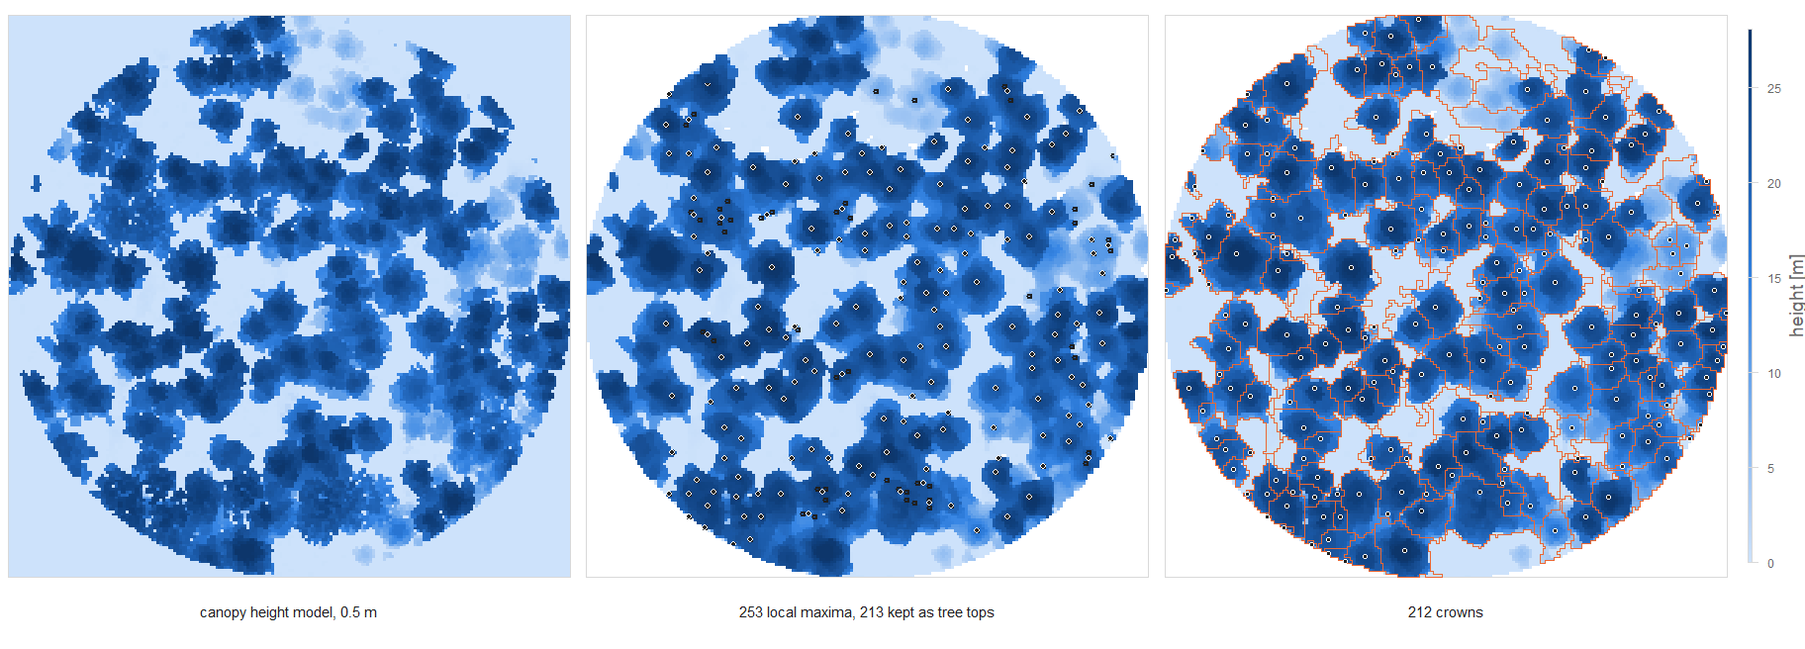
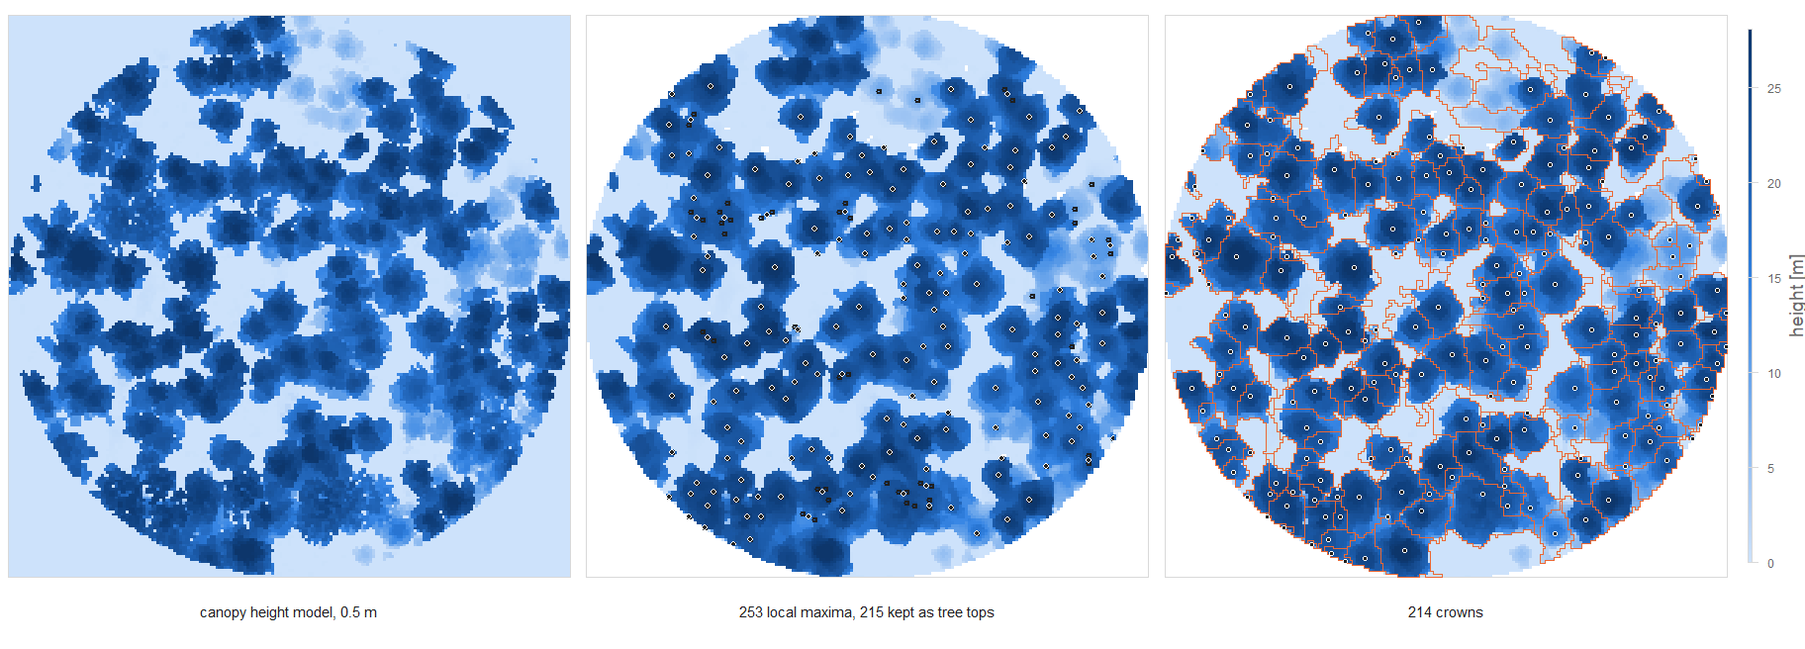
Remake the figures and requote the READMEs from the tools

Changed region(s): [[0.75, 0.0915, 0.7812, 0.122], [0.5312, 0.3049, 0.5625, 0.3354], [0.5, 0.7622, 0.5312, 0.7927]]

diff --git a/python/www/figures.py b/python/www/figures.py
@@ -26,7 +26,7 @@ HERE = os.path.dirname(os.path.abspath(__file__))
 ROOT = os.path.dirname(HERE)
 sys.path.insert(0, ROOT)
 
-from pycacumen import CrownDelineator, detect_tops, merge_tops, screen_tops  # noqa: E402
+from pycacumen import CrownDelineator, as_pixels, detect_tops, merge_tops, screen_tops  # noqa: E402
 
 TILE = os.path.join(ROOT, "test_data", "chm_150_2014.tif")
 # One blue ramp for magnitude, one orange for the crown outlines, ink for tops.
@@ -74,8 +74,9 @@ def absorbed_mask(crowns, tops):
     present = np.zeros(len(tops) + 1, bool)
     present[np.unique(crowns[crowns > 0])] = True
     gone = ~present[1:]
+    cells = as_pixels(tops)                  # the cell each top was seeded on
     for i in np.nonzero(gone)[0]:            # every absorbed top sits inside somebody else's crown
-        r, c = int(round(tops[i, 0])), int(round(tops[i, 1]))
+        r, c = cells[i]
         assert crowns[r, c] > 0 and crowns[r, c] != i + 1, (i, crowns[r, c])
     return gone
 
@@ -86,7 +87,10 @@ chm[~np.isfinite(chm)] = 0.0
 vmax = float(np.nanpercentile(chm, 99.5))
 cd.smooth(ws=3)
 raw = detect_tops(cd.smoothed, hmin=HMIN, ws=WS_TOPS)
-kept = screen_tops(cd.smoothed, merge_tops(raw, distance=MERGE), hmin=SCREEN)
+# merged as the pipeline merges: with the CHM and the detection threshold, so that a group
+# whose centroid falls on a hole or in a gap keeps its highest top
+kept = screen_tops(cd.smoothed, merge_tops(raw, distance=MERGE, chm=cd.smoothed, hmin=HMIN),
+                   hmin=SCREEN)
 cd.tops = kept
 runs = {}
 for vt in (2.0, 8.0, 20.0):

diff --git a/r/README.md b/r/README.md
@@ -11,7 +11,7 @@
 
 A canopy height model goes in; a crown per tree comes out, as a raster of ids and as polygons. R and plain C — no Rcpp, no compiled dependencies, and `terra` only if you want to read and write files.
 
-> **Python users:** the same algorithm is in [`python/`](../python), the pycacumen package. The two packages share this repository, and they are not merely similar. On the sixty small scenes of the shared synthetic test suite they produce **identical output, pixel for pixel**; on its ten large, crowded ones they differ on 0.032 % of pixels. On real canopy height models they agree closely but not exactly, because the two watershed implementations break plateau ties differently. Both numbers are measured, not claimed — see [Agreement with pycacumen](#agreement-with-pycacumen).
+> **Python users:** the same algorithm is in [`python/`](../python), the pycacumen package. The two packages share this repository, and they are not merely similar. On the seventy scenes of the shared synthetic test suite they produce **identical output, pixel for pixel**. On real canopy height models they agree closely but not exactly, because the two watershed implementations break plateau ties differently. Both numbers are measured, not claimed — see [Agreement with pycacumen](#agreement-with-pycacumen).
 
 ## The problem it solves
 
@@ -24,17 +24,17 @@ rcacumen does not try to get the tops right first. It accepts the surplus and co
 3. **Growing.** Each tree grows greedily, absorbing neighbours while the combined height variance stays under a threshold. When two trees absorb each other, they were one crown — this is where over-detection is undone.
 4. **Arbitration.** Growing runs independently per seed, so two crowns can claim the same region. The claim is settled on the data — the taller tree, the nearer tree, or the better height match — never on iteration order. Only an exact tie, two equally tall trees under the height rule for one, falls to the top that comes first, and both packages list the tops in one order.
 
-<img src="https://raw.githubusercontent.com/igorpawelec/cacumen/main/r/www/pipeline.png" alt="A 0.5 m canopy height model of a circular sample plot; the same tile with 253 local maxima of which 213 are kept as tree tops; and the 212 crowns delineated from them, drawn as outlines over the height model" width="100%"/>
+<img src="https://raw.githubusercontent.com/igorpawelec/cacumen/main/r/www/pipeline.png" alt="A 0.5 m canopy height model of a circular sample plot; the same tile with 253 local maxima of which 215 are kept as tree tops; and the 214 crowns delineated from them, drawn as outlines over the height model" width="100%"/>
 
-*A 100 × 100 m tile of a 0.5 m canopy height model (`test_data/chm_150_2014.tif`, a mature stand on a circular sample plot). Left: the input. Middle: 253 local maxima after median smoothing (`hmin` 7 m, 5 px window), of which 213 survive merging within 5 px and screening below 10 m — the filled markers. Right: the 212 crowns grown from them at the default `variance_thresh` of 2. Made by `www/figures.R`, from this package.*
+*A 100 × 100 m tile of a 0.5 m canopy height model (`test_data/chm_150_2014.tif`, a mature stand on a circular sample plot). Left: the input. Middle: 253 local maxima after median smoothing (`hmin` 7 m, 5 px window), of which 215 survive merging within 5 px and screening below 10 m — the filled markers. Right: the 214 crowns grown from them at the default `variance_thresh` of 2. Made by `www/figures.R`, from this package.*
 
 ## The one parameter that matters
 
 `variance_thresh` is the height variance (σ², in m²) a single crown may contain. It sets how readily a tree absorbs its neighbours, and therefore how many of the surplus tops are merged back. Everything else has a sensible default; this one you choose per stand.
 
-<img src="https://raw.githubusercontent.com/igorpawelec/cacumen/main/r/www/variance_thresh.png" alt="The same tile delineated at variance_thresh 2, 8 and 20: 212, 202 and 123 crowns; the tree tops absorbed into a neighbouring crown are drawn as hollow rings and cluster where crowns merged" width="100%"/>
+<img src="https://raw.githubusercontent.com/igorpawelec/cacumen/main/r/www/variance_thresh.png" alt="The same tile delineated at variance_thresh 2, 8 and 20: 214, 204 and 124 crowns; the tree tops absorbed into a neighbouring crown are drawn as hollow rings and cluster where crowns merged" width="100%"/>
 
-*The same 213 tree tops grown at `variance_thresh` 2, 8 and 20. Filled markers are tops that ended up as a crown of their own; hollow rings are tops absorbed into a neighbour — 1, 11 and 90 of them. At 2 almost nothing merges and every peak on a broad crown stays a separate tree; at 20 the merging reaches across real crown boundaries in the dense south-east of the plot. The right value lies where the absorbed tops are the ragged-surface duplicates and not the suppressed neighbours, which is a judgement made by looking, and the point of drawing them. pycacumen's README shows the same tile from Python: identical at 2 and 20, one crown apart at 8 (203 against 202) — the watershed tie-breaking measured [below](#agreement-with-pycacumen), at work.*
+*The same 215 tree tops grown at `variance_thresh` 2, 8 and 20. Filled markers are tops that ended up as a crown of their own; hollow rings are tops absorbed into a neighbour — 1, 11 and 91 of them. At 2 almost nothing merges and every peak on a broad crown stays a separate tree; at 20 the merging reaches across real crown boundaries in the dense south-east of the plot. The right value lies where the absorbed tops are the ragged-surface duplicates and not the suppressed neighbours, which is a judgement made by looking, and the point of drawing them. pycacumen's README shows the same tile from Python: identical at 2 and 20, one crown apart at 8 (205 against 204) — the watershed tie-breaking measured [below](#agreement-with-pycacumen), at work.*
 
 Two further controls shape the outcome:
 
@@ -130,8 +130,8 @@ attr(crowns, "n_contested")
 |---|---|---|
 | `hmin` | 2 | Minimum height (m) for a pixel to be a candidate |
 | `ws` | 3 | Local-maximum window (px) = minimum spacing between tops |
-| `distance` | 5 | Merge radius (px). Grouping is transitive — keep below crown diameter |
-| `chm` | `NULL` | `merge_tops()` only: the CHM. With it, a group whose centroid falls on a cell with no data is represented by its highest top; `delineate()` passes it |
+| `distance` | 5 | Merge radius (px). Grouping is transitive — keep below crown diameter; a warning says when groups stretch over more than five times it |
+| `chm`, `hmin` | `NULL` | `merge_tops()` only: the CHM and the height the tops were detected above. With them, a group whose centroid falls on a cell with no data, or on one not above `hmin`, is represented by its highest top; `delineate()` passes both |
 
 **Growing** — `grow_crowns`
 
@@ -155,11 +155,11 @@ Two implementations of one method are only useful if they agree, so this is meas
 
 | Test | Result |
 |---|---|
-| Watershed vs `scikit-image`, 200 random scenes, flooded from the detected tops | 100 smooth scenes **exact** (0 of 195,857 px); 100 that are all plateau within **0.07 %** (152 of 206,286 px) |
-| Full pipeline vs pycacumen, 70 synthetic scenes, all 3 conflict rules | 60 small scenes **exact**; 10 large crowded ones within **0.032 %** |
+| Watershed vs `scikit-image`, 200 random scenes, flooded from the detected tops | 100 smooth scenes **exact** (0 of 195,857 px); 100 that are all plateau within **0.04 %** (83 of 206,286 px) |
+| Full pipeline vs pycacumen, 70 synthetic scenes, all 3 conflict rules | all 70 scenes **exact** (0 of 433,006 px) |
 | Crown counts, contested counts | identical throughout |
-| Watershed vs `scikit-image`, 7 **real** CHMs | 375 of 147,368 masked px differ (**0.25 %**) |
-| Full pipeline vs pycacumen, same 7 real CHMs | 1,793 of 281,602 px differ (**0.64 %**) |
+| Watershed vs `scikit-image`, 7 **real** CHMs | 288 of 147,368 masked px differ (**0.20 %**) |
+| Full pipeline vs pycacumen, same 7 real CHMs | 271 of 281,602 px differ (**0.10 %**) |
 
 Reproduce it yourself:
 
@@ -172,18 +172,18 @@ Rscript tools/real_tiles_stage_by_stage.R          # the two rows on real CHMs
 ```
 
 <details>
-<summary><b>Where the last 0.25 % goes</b></summary>
+<summary><b>Where the last 0.2 % goes</b></summary>
 
 The synthetic scenes agree exactly; real canopy height models do not, and the honest version is that the equality holds on the test suite rather than in general. Measured stage by stage on the seven tiles of `test_data`, each stage fed pycacumen's own output for the previous one (`tools/real_tiles_stage_by_stage.R`: median smoothing over 3 px, tops above 5 m in a 5 px window, variance threshold 8, mask at 1 m):
 
 - `smooth_chm` — identical to the last bit
 - `detect_tops` — agrees to 2.8e-14
 - the mask — identical
-- the watershed — **375 of 147,368 masked pixels differ**
+- the watershed — **288 of 147,368 masked pixels differ**
 
-`src/watershed.c` reimplements `skimage.segmentation.watershed` rather than calling it, and on the plateau structure of a real CHM the two break ties differently. Which of the three documented details diverges — heap order, label-on-push, or neighbour order — is not yet established. What is established is where it shows: flooded from the detected tops, random smooth surfaces come out identical and surfaces rounded to whole metres differ on 0.07 % of pixels; with the same number of markers dropped at random, so that several meet on one plateau, 2.4 % of pixels differ (`tools/watershed_against_skimage.R`).
+`src/watershed.c` reimplements `skimage.segmentation.watershed` rather than calling it, and on the plateau structure of a real CHM the two break ties differently. Which of the three documented details diverges — heap order, label-on-push, or neighbour order — is not yet established. What is established is where it shows: flooded from the detected tops, random smooth surfaces come out identical and surfaces rounded to whole metres differ on 0.04 % of pixels; with the same number of markers dropped at random, so that several meet on one plateau, 2.4 % of pixels differ (`tools/watershed_against_skimage.R`).
 
-Those 375 pixels become 1,793 differing crown pixels, and unevenly: on `chm_42_2014` 36 watershed pixels become 1,352, on `chm_33_2012` 20 become 206, and on `chm_80_2021` 92 become none. The watershed regions are the units the graph grows over, so moving one boundary pixel can shift a region's mean and variance, flip a merge, and carry a whole region to another crown. Treat any watershed difference as significant however small it looks.
+Those 288 pixels become 271 differing crown pixels, and unevenly: on `chm_33_2012` 15 watershed pixels become 86, on `chm_150_2023` 153 stay 153, and on `chm_80_2021` 84 become none. The watershed regions are the units the graph grows over, so moving one boundary pixel can shift a region's mean and variance, flip a merge, and carry a whole region to another crown. Treat any watershed difference as significant however small it looks.
 
 Two details make that agreement possible, and both are easy to get wrong in a port:
 
@@ -195,15 +195,15 @@ Two details make that agreement possible, and both are easy to get wrong in a po
 <details>
 <summary><b>Notes on behaviour</b></summary>
 
-**Tree detection is unstable on plateaus, and the growing is sensitive to ties as well.** This is a property of the method, not of either implementation, and it matters more than the 0.25 % above. Noise far below any physical or instrumental meaning changes nothing about the canopy, but it does break plateau ties differently. A nanometre is enough to move the tops: `detect_tops` works in double precision and sees it, while the grower stores its surface in single precision and is handed the same surface every time. Ten micrometres, a few units in the last place of a single-precision height, reach the watershed and the region growing too. Measured over the seven real CHMs, eight repeats each (`tools/measure_tie_sensitivity.py`):
+**Tree detection is unstable on plateaus, and the growing is sensitive to ties as well.** This is a property of the method, not of either implementation, and it matters more than the 0.2 % above. Noise far below any physical or instrumental meaning changes nothing about the canopy, but it does break plateau ties differently. A nanometre is enough to move the tops: `detect_tops` works in double precision and sees it, while the grower stores its surface in single precision and is handed the same surface every time. Ten micrometres, a few units in the last place of a single-precision height, reach the watershed and the region growing too. Measured over the seven real CHMs, eight repeats each (`tools/measure_tie_sensitivity.py`):
 
 | | worst case |
 |---|---|
 | tree tops detected, 1 nm of noise | **3 to 32 fewer**, in every repeat on every scene |
-| canopy pixels changing crown, 1 nm of noise, tops free to move | up to **85 %** (19 to 85 % by scene) |
-| canopy pixels changing crown, 10 µm of noise, tops held fixed | up to **17 %** (2.5 to 17 % by scene) |
+| canopy pixels changing crown, 1 nm of noise, tops free to move | up to **24 %** (2.9 to 24 % by scene) |
+| canopy pixels changing crown, 10 µm of noise, tops held fixed | up to **15 %** (2.1 to 15 % by scene) |
 
-Most of the instability enters through `detect_tops`: at a nanometre the grower's input does not change at all, so every pixel in the second row moved because a top did. The third row is what is left with the tops pinned, and it is not nothing: the watershed and the region growing answer to ties on their own. That is the sensitivity that separates rcacumen from pycacumen above. The tree count falls consistently rather than randomly, which suggests exact ties inflate it — a plateau of equal maxima yields tops that a hair of noise removes — though that mechanism is a hypothesis and has not been confirmed.
+At a nanometre the grower's input does not change at all, so every pixel in the second row moved because a top did: `detect_tops` is where a tie that small gets in. The third row is what is left with the tops pinned, and it is not nothing: the watershed and the region growing answer to ties on their own. That is the sensitivity that separates rcacumen from pycacumen above. The tree count falls consistently rather than randomly, which suggests exact ties inflate it — a plateau of equal maxima yields tops that a hair of noise removes — though that mechanism is a hypothesis and has not been confirmed.
 
 The practical consequence: **a tree count from this method carries an implementation-defined component**, and so do crown boundaries. Report the smoothing and detection parameters, and do not compare counts across implementations or library versions without re-running both.
 

diff --git a/python/README.md b/python/README.md
@@ -11,7 +11,7 @@
 
 A canopy height model goes in; a crown per tree comes out, as a label raster and as polygons. Pure Python + Numba, no compiled extensions, no external binaries.
 
-> **R users:** the same algorithm is in [`r/`](../r), the rcacumen package. The two packages share this repository and are validated against each other whenever either changes: exactly on the sixty small scenes of the shared synthetic suite and within 0.032 % of pixels on its ten large ones. On the seven real canopy height models of the repository the finished crowns differ on 0.64 % of pixels, because the two watersheds break plateau ties differently.
+> **R users:** the same algorithm is in [`r/`](../r), the rcacumen package. The two packages share this repository and are validated against each other whenever either changes: exactly on all seventy scenes of the shared synthetic suite. On the seven real canopy height models of the repository the finished crowns differ on 0.10 % of pixels, because the two watersheds break plateau ties differently.
 
 ## The problem it solves
 
@@ -24,17 +24,17 @@ pycacumen does not try to get the tops right first. It accepts the surplus and c
 3. **Growing.** Each tree grows greedily, absorbing neighbours while the combined height variance stays under a threshold. When two trees absorb each other, they were one crown — this is where over-detection is undone.
 4. **Arbitration.** Growing runs independently per seed, so two crowns can claim the same region. The claim is settled on the data — the taller tree, the nearer tree, or the better height match — never on iteration order. Only an exact tie, two equally tall trees under the height rule for one, falls to the top that comes first, and both packages list the tops in one order.
 
-<img src="https://raw.githubusercontent.com/igorpawelec/cacumen/main/python/www/pipeline.png" alt="A 0.5 m canopy height model of a circular sample plot; the same tile with 253 local maxima of which 213 are kept as tree tops; and the 212 crowns delineated from them, drawn as outlines over the height model" width="100%"/>
+<img src="https://raw.githubusercontent.com/igorpawelec/cacumen/main/python/www/pipeline.png" alt="A 0.5 m canopy height model of a circular sample plot; the same tile with 253 local maxima of which 215 are kept as tree tops; and the 214 crowns delineated from them, drawn as outlines over the height model" width="100%"/>
 
-*A 100 × 100 m tile of a 0.5 m canopy height model (`test_data/chm_150_2014.tif`, a mature stand on a circular sample plot). Left: the input. Middle: 253 local maxima after median smoothing (`hmin` 7 m, 5 px window), of which 213 survive merging within 5 px and screening below 10 m — the filled markers. Right: the 212 crowns grown from them at the default `variance_thresh` of 2. Made by `www/figures.py`.*
+*A 100 × 100 m tile of a 0.5 m canopy height model (`test_data/chm_150_2014.tif`, a mature stand on a circular sample plot). Left: the input. Middle: 253 local maxima after median smoothing (`hmin` 7 m, 5 px window), of which 215 survive merging within 5 px and screening below 10 m — the filled markers. Right: the 214 crowns grown from them at the default `variance_thresh` of 2. Made by `www/figures.py`.*
 
 ## The one parameter that matters
 
 `variance_thresh` is the height variance (σ², in m²) a single crown may contain. It sets how readily a tree absorbs its neighbours, and therefore how many of the surplus tops are merged back. Everything else has a sensible default; this one you choose per stand.
 
-<img src="https://raw.githubusercontent.com/igorpawelec/cacumen/main/python/www/variance_thresh.png" alt="The same tile delineated at variance_thresh 2, 8 and 20: 212, 203 and 123 crowns; the tree tops absorbed into a neighbouring crown are drawn as hollow rings and cluster where crowns merged" width="100%"/>
+<img src="https://raw.githubusercontent.com/igorpawelec/cacumen/main/python/www/variance_thresh.png" alt="The same tile delineated at variance_thresh 2, 8 and 20: 214, 205 and 124 crowns; the tree tops absorbed into a neighbouring crown are drawn as hollow rings and cluster where crowns merged" width="100%"/>
 
-*The same 213 tree tops grown at `variance_thresh` 2, 8 and 20. Filled markers are tops that ended up as a crown of their own; hollow rings are tops absorbed into a neighbour — 1, 10 and 90 of them. At 2 almost nothing merges and every peak on a broad crown stays a separate tree; at 20 the merging reaches across real crown boundaries in the dense south-east of the plot. The right value lies where the absorbed tops are the ragged-surface duplicates and not the suppressed neighbours, which is a judgement made by looking, and the point of drawing them.*
+*The same 215 tree tops grown at `variance_thresh` 2, 8 and 20. Filled markers are tops that ended up as a crown of their own; hollow rings are tops absorbed into a neighbour — 1, 10 and 91 of them. At 2 almost nothing merges and every peak on a broad crown stays a separate tree; at 20 the merging reaches across real crown boundaries in the dense south-east of the plot. The right value lies where the absorbed tops are the ragged-surface duplicates and not the suppressed neighbours, which is a judgement made by looking, and the point of drawing them.*
 
 Two further controls shape the outcome:
 
@@ -155,8 +155,8 @@ cd = CrownDelineator.from_file("big_chm.tif", window=(1000, 500, 2000, 2000))
 |---|---|---|
 | `hmin` | 2.0 | Minimum height (m) for a pixel to be a candidate |
 | `ws` | 3 | Local-maximum window (px) = minimum spacing between tops |
-| `distance` | 5.0 | Merge radius (px). Grouping is transitive — keep below crown diameter |
-| `chm` | `None` | `merge_tops` only: the CHM. With it, a group whose centroid falls on a cell with no data is represented by its highest top; the pipeline passes it |
+| `distance` | 5.0 | Merge radius (px). Grouping is transitive — keep below crown diameter; a warning says when groups stretch over more than five times it |
+| `chm`, `hmin` | `None` | `merge_tops` only: the CHM and the height the tops were detected above. With them, a group whose centroid falls on a cell with no data, or on one not above `hmin`, is represented by its highest top; the pipeline passes both |
 
 **Growing** — `delineate` / `run_all`
 

diff --git a/README.md b/README.md
@@ -14,7 +14,7 @@ A canopy height model goes in; a crown per tree comes out, as a label raster and
 | Python | [`pycacumen`](python/) | ![latest python tag](https://img.shields.io/github/v/tag/igorpawelec/cacumen?filter=python-v*&label=) | `pip install --no-deps "git+https://github.com/igorpawelec/cacumen.git#subdirectory=python"` |
 | R | [`rcacumen`](r/) | ![latest r tag](https://img.shields.io/github/v/tag/igorpawelec/cacumen?filter=r-v*&label=) | `remotes::install_github("igorpawelec/cacumen", subdir = "r")` |
 
-The two are checked against each other whenever either changes ([parity workflow](.github/workflows/parity.yml)). On the shared synthetic test suite they produce identical output, pixel for pixel, on the sixty small scenes and differ on 0.032 % of pixels on the ten large, crowded ones. On the seven real canopy height models of the repository the two watersheds differ on 0.25 % of the pixels inside the height mask and the finished crowns on 0.64 % of all pixels, because the two watershed implementations break plateau ties differently.
+The two are checked against each other whenever either changes ([parity workflow](.github/workflows/parity.yml)). On the seventy scenes of the shared synthetic test suite they produce identical output, pixel for pixel. On the seven real canopy height models of the repository the two watersheds differ on 0.20 % of the pixels inside the height mask and the finished crowns on 0.10 % of all pixels, because the two watershed implementations break plateau ties differently.
 
 **Authors:** Igor Pawelec, University of Agriculture in Kraków. **License:** GPL-3.0.
 
@@ -29,9 +29,9 @@ cacumen does not try to get the tops right first. It accepts the surplus and cor
 3. **Growing.** Each tree grows greedily, absorbing neighbours while the combined height variance stays under a threshold. When two trees absorb each other, they were one crown — this is where over-detection is undone.
 4. **Arbitration.** Growing runs independently per seed, so two crowns can claim the same region. The claim is settled on the data — the taller tree, the nearer tree, or the better height match — never on iteration order. Only an exact tie, two equally tall trees under the height rule for one, falls to the top that comes first, and both packages list the tops in one order.
 
-<img src="python/www/pipeline.png" alt="A 0.5 m canopy height model of a circular sample plot; the same tile with 253 local maxima of which 213 are kept as tree tops; and the 212 crowns delineated from them, drawn as outlines over the height model" width="100%"/>
+<img src="python/www/pipeline.png" alt="A 0.5 m canopy height model of a circular sample plot; the same tile with 253 local maxima of which 215 are kept as tree tops; and the 214 crowns delineated from them, drawn as outlines over the height model" width="100%"/>
 
-*A 100 × 100 m tile of a 0.5 m canopy height model (`python/test_data/chm_150_2014.tif`, a mature stand on a circular sample plot). Left: the input. Middle: 253 local maxima after median smoothing (`hmin` 7 m, 5 px window), of which 213 survive merging within 5 px and screening below 10 m — the filled markers. Right: the 212 crowns grown from them at the default `variance_thresh` of 2. Made by `www/figures.py`.*
+*A 100 × 100 m tile of a 0.5 m canopy height model (`python/test_data/chm_150_2014.tif`, a mature stand on a circular sample plot). Left: the input. Middle: 253 local maxima after median smoothing (`hmin` 7 m, 5 px window), of which 215 survive merging within 5 px and screening below 10 m — the filled markers. Right: the 214 crowns grown from them at the default `variance_thresh` of 2. Made by `www/figures.py`.*
 
 ## Quick start
 

diff --git a/r/CONTRIBUTING.md b/r/CONTRIBUTING.md
@@ -69,8 +69,8 @@ Rscript tools/cross_validate_against_pycacumen.R
 `retry_rejected`. Small sparse scenes must match **exactly**; large crowded
 ones are allowed a bounded drift, because tie-breaking on a plateau is not
 stable across the two implementations. On the real CHMs of the repository
-the two watersheds differ on 0.25 % of the masked pixels and the finished
-crowns on 0.64 % of all pixels (`tools/real_tiles_stage_by_stage.R`) — see
+the two watersheds differ on 0.20 % of the masked pixels and the finished
+crowns on 0.10 % of all pixels (`tools/real_tiles_stage_by_stage.R`) — see
 the README for why that is not a defect in either.
 
 It lives in `tools/` and not `tests/` because it needs Python and pycacumen

diff --git a/r/cran-comments.md b/r/cran-comments.md
@@ -43,7 +43,7 @@ The DESCRIPTION states that results match the pycacumen Python package pixel
 for pixel on the shared synthetic test suite, and closely but not exactly
 on canopy height models containing plateaus. That distinction is
 deliberate and measured, not hedging: the two implementations break
-plateau ties differently, the difference is 0.25% of watershed pixels on
+plateau ties differently, the difference is 0.20% of watershed pixels on
 the real scenes tested, and both figures are documented in the README
 along with how to reproduce them.
 
